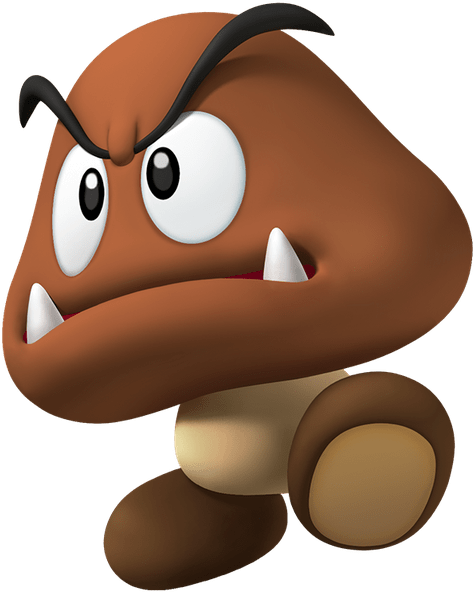
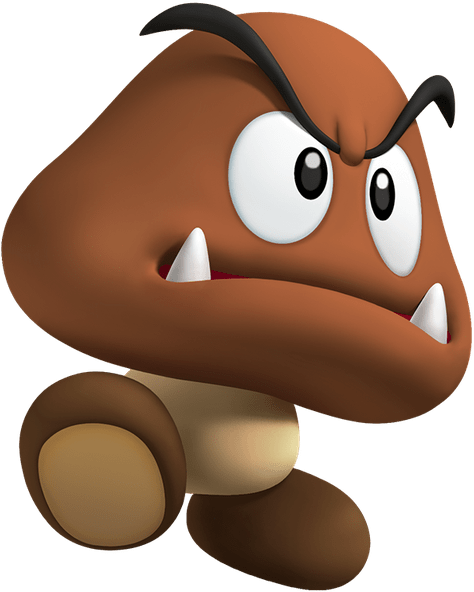
mirrored images added

diff --git a/src/backend/block/Block.java b/src/backend/block/Block.java
@@ -5,6 +5,7 @@ import backend.gamePlay.Game;
 
 import javax.imageio.ImageIO;
 import java.awt.*;
+import java.awt.image.BufferedImage;
 import java.io.File;
 import java.io.IOException;
 import java.util.HashMap;
@@ -16,7 +17,7 @@ public abstract class Block {
     final static double G = 35;
     final static double MAX_MOVE = 0.8;
     final static double eps = 0.01;
-    static Map<String, Image> images = new HashMap<String, Image>();
+    static Map<String, BufferedImage> images = new HashMap<>();
     public double X, W, H, Y;
     protected double vx = 0, vy = 0;
 
@@ -79,15 +80,31 @@ public abstract class Block {
 
     protected abstract String getImageName();
 
+    public BufferedImage getMirroredImage(BufferedImage originalImage) {
+        int width = originalImage.getWidth();
+        int height = originalImage.getHeight();
+        BufferedImage mirrorImage = new BufferedImage(width, height, BufferedImage.TYPE_INT_ARGB);
+        for (int y = 0; y < height; y++) {
+            for (int lx = 0, rx = width - 1; lx < width; lx++, rx--) {
+                int p = originalImage.getRGB(lx, y);
+                mirrorImage.setRGB(rx, y, p);
+            }
+        }
+        return mirrorImage;
+    }
+
     public Image getImage() {
-        if (!images.containsKey(getImageName())) {
+        if(!images.containsKey(getImageName())) {
             try {
                 images.put(getImageName(), ImageIO.read(new File("Images\\" + getImageName())));
             } catch (IOException ex) {
                 throw new RuntimeException(ex);
             }
         }
-        return images.get(getImageName());
+        if(vx < 0 && !images.containsKey("mirrored"+getImageName())) {
+            images.put("mirrored"+getImageName(), getMirroredImage(images.get(getImageName())));
+        }
+        return images.get((vx < 0?"mirrored":"")+getImageName());
     }
 
     protected double Push(Direction direction) {
